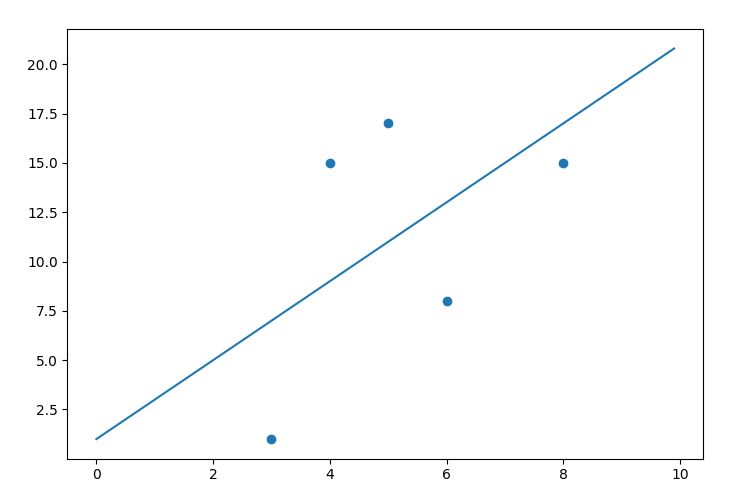
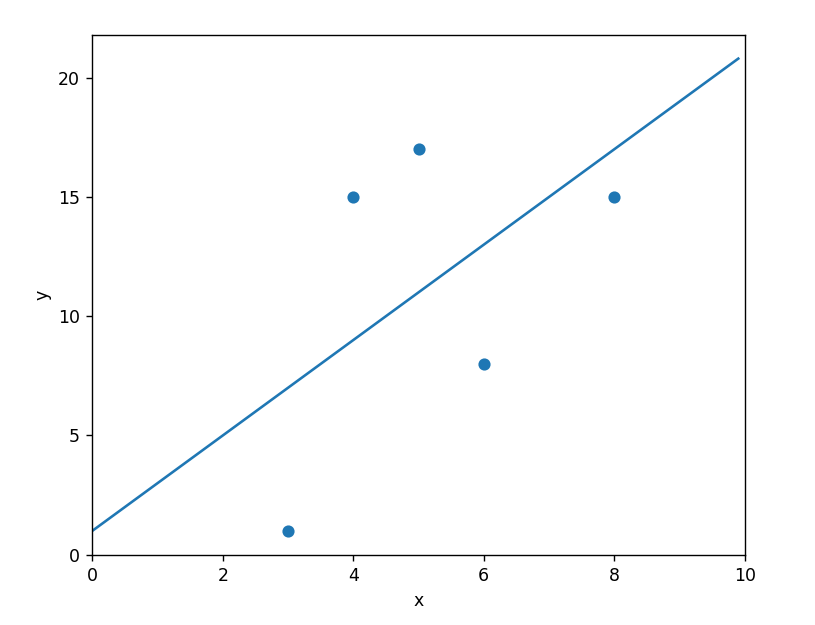
update

diff --git a/tset.py b/tset.py
@@ -10,4 +10,8 @@ y = 2 * x  + 1
 
 plt.plot(x, y)
 plt.scatter(data[:, 0], data[:, 1])
+plt.xlabel('x')
+plt.ylabel('y')
+plt.xlim(0, 10)
+plt.yticks([0, 5, 10, 15, 20])
 plt.show()
